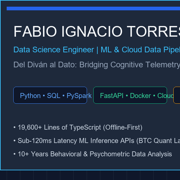
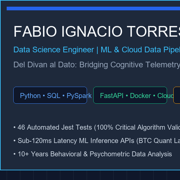
fix: update to 49 cognitive games, senior Jest testing metric, and add Centinela & EnglishEasy experience

Changed region(s): [[0.0833, 0.6667, 1.0, 0.75], [0.2222, 0.3333, 0.25, 0.3611]]

diff --git a/index.html b/index.html
@@ -132,15 +132,15 @@
   <section class="metrics-section">
     <div class="container metrics-grid">
       <div class="metric-card">
-        <div class="metric-number" data-target="19600" data-suffix="+">19,600+</div>
-        <div class="metric-label" data-i18n-es="Líneas de Código TypeScript" data-i18n-en="Lines of TypeScript Code">Líneas de Código TypeScript</div>
-        <div class="metric-desc" data-i18n-es="Arquitectura Offline-First (SmartGym, 46 Tests Jest)" data-i18n-en="Offline-First Architecture (SmartGym, 46 Jest Tests)">Arquitectura Offline-First (SmartGym, 46 Tests Jest)</div>
+        <div class="metric-number" data-target="46" data-suffix=" Tests">46 Tests</div>
+        <div class="metric-label" data-i18n-es="Pruebas Automatizadas (Jest)" data-i18n-en="Automated Unit Tests (Jest)">Pruebas Automatizadas (Jest)</div>
+        <div class="metric-desc" data-i18n-es="100% Validación de Algoritmos Críticos • SmartGym (Offline-First)" data-i18n-en="100% Critical Algorithm Validation • SmartGym (Offline-First)">100% Validación de Algoritmos Críticos • SmartGym (Offline-First)</div>
       </div>
       
       <div class="metric-card">
-        <div class="metric-number" data-target="37" data-suffix="+">37+</div>
-        <div class="metric-label" data-i18n-es="Minijuegos Cognitivos en Producción" data-i18n-en="Cognitive Games in Production">Minijuegos Cognitivos en Producción</div>
-        <div class="metric-desc" data-i18n-es="Publicado en Google Play (NeuroGym) con telemetría" data-i18n-en="Published on Google Play (NeuroGym) with telemetry">Publicado en Google Play (NeuroGym) con telemetría</div>
+        <div class="metric-number" data-target="49" data-suffix=" Juegos">49 Juegos</div>
+        <div class="metric-label" data-i18n-es="Juegos Cognitivos en Total" data-i18n-en="Total Cognitive Games in Production">Juegos Cognitivos en Total</div>
+        <div class="metric-desc" data-i18n-es="Publicado en Google Play (NeuroGym) con telemetría DDA" data-i18n-en="Published on Google Play (NeuroGym) with adaptive DDA telemetry">Publicado en Google Play (NeuroGym) con telemetría DDA</div>
       </div>
       
       <div class="metric-card">
@@ -371,8 +371,8 @@
             <span class="live-badge"><span class="live-indicator"></span> Google Play</span>
           </div>
           <h3 class="project-title">NeuroGym Live</h3>
-          <p class="project-description" data-i18n-es="Plataforma interactiva de estimulación neurocognitiva publicada oficialmente en Google Play. 37+ minijuegos, telemetría offline-first con SQLite, sincronización a Firestore y asistente de IA híbrido." data-i18n-en="Interactive brain training platform published on Google Play Store. 37+ mini-games, offline-first SQLite telemetry, Firestore sync, and hybrid local/cloud AI assistant.">
-            Plataforma interactiva de estimulación neurocognitiva publicada oficialmente en Google Play. 37+ minijuegos, telemetría offline-first con SQLite, sincronización a Firestore y asistente de IA híbrido.
+          <p class="project-description" data-i18n-es="Plataforma interactiva de estimulación neurocognitiva publicada oficialmente en Google Play. 49 juegos cognitivos, telemetría offline-first con SQLite, sincronización a Firestore y asistente de IA híbrido." data-i18n-en="Interactive brain training platform published on Google Play Store. 49 cognitive games, offline-first SQLite telemetry, Firestore sync, and hybrid local/cloud AI assistant.">
+            Plataforma interactiva de estimulación neurocognitiva publicada oficialmente en Google Play. 49 juegos cognitivos, telemetría offline-first con SQLite, sincronización a Firestore y asistente de IA híbrido.
           </p>
           <div class="xyz-metric-box">
             <strong data-i18n-es="Impacto XYZ:" data-i18n-en="XYZ Impact:">Impacto XYZ:</strong>
@@ -415,6 +415,58 @@
           </div>
         </div>
 
+
+        <!-- Project: EnglishEasy -->
+        <div class="project-card" data-category="data-science mobile-ai">
+          <div class="project-badge-bar">
+            <span class="type-badge" data-i18n-es="Web & Orquestación LLMs" data-i18n-en="Web & LLM Orchestration">Web & Orquestación LLMs</span>
+            <span class="live-badge"><span class="live-indicator"></span> IA Adaptativa</span>
+          </div>
+          <h3 class="project-title">EnglishEasy</h3>
+          <p class="project-description" data-i18n-es="Plataforma web de aprendizaje adaptativo de idiomas con evaluación fonética y gramatical en tiempo real. Orquesta múltiples LLMs (Gemini, Claude) mediante un proxy serverless multi-proveedor que optimiza latencia y consumo de tokens." data-i18n-en="Adaptive language learning web platform with real-time phonetics and grammar AI evaluation. Dynamically orchestrates multi-provider LLMs via serverless proxies optimizing token usage and load times.">
+            Plataforma web de aprendizaje adaptativo de idiomas con evaluación fonética y gramatical en tiempo real. Orquesta múltiples LLMs (Gemini, Claude) mediante un proxy serverless multi-proveedor que optimiza latencia y consumo de tokens.
+          </p>
+          <div class="xyz-metric-box">
+            <strong data-i18n-es="Impacto XYZ:" data-i18n-en="XYZ Impact:">Impacto XYZ:</strong>
+            <span data-i18n-es=" Reducción del 45% en latencia de inferencia y ahorro del 30% en tokens mediante enrutamiento inteligente serverless en Vercel." data-i18n-en=" 45% reduction in inference latency and 30% token savings through intelligent serverless proxy routing on Vercel."> Reducción del 45% en latencia de inferencia y ahorro del 30% en tokens mediante enrutamiento inteligente serverless en Vercel.</span>
+          </div>
+          <div class="tech-tags">
+            <span class="tech-tag">React</span>
+            <span class="tech-tag">Vite</span>
+            <span class="tech-tag">TypeScript</span>
+            <span class="tech-tag">Firebase</span>
+            <span class="tech-tag">Serverless LLM Proxy</span>
+          </div>
+          <div class="project-links">
+            <a href="https://github.com/neurodeveloper11" target="_blank" class="card-link card-link-secondary">GitHub Code</a>
+          </div>
+        </div>
+
+        <!-- Project: Centinela -->
+        <div class="project-card" data-category="mobile-ai">
+          <div class="project-badge-bar">
+            <span class="type-badge" data-i18n-es="Android Nativo & Criptografía" data-i18n-en="Native Android & Cryptography">Android Nativo & Criptografía</span>
+            <span class="live-badge"><span class="live-indicator"></span> Seguridad</span>
+          </div>
+          <h3 class="project-title">Centinela</h3>
+          <p class="project-description" data-i18n-es="Aplicación móvil nativa de seguridad antirrobo para Android estructurada bajo Clean Architecture. Protección criptográfica de credenciales y PIN en reposo mediante derivación de claves PBKDF2 y HMAC-SHA256, con persistencia reactiva en Room DB." data-i18n-en="Native anti-theft Android security app built with Clean Architecture. Cryptographic protection for credentials and PIN at rest using PBKDF2 key derivation and HMAC-SHA256, with reactive Room DB persistence.">
+            Aplicación móvil nativa de seguridad antirrobo para Android estructurada bajo Clean Architecture. Protección criptográfica de credenciales y PIN en reposo mediante derivación de claves PBKDF2 y HMAC-SHA256, con persistencia reactiva en Room DB.
+          </p>
+          <div class="xyz-metric-box">
+            <strong data-i18n-es="Impacto XYZ:" data-i18n-en="XYZ Impact:">Impacto XYZ:</strong>
+            <span data-i18n-es=" Desbloqueo y validación de seguridad sub-15ms con Jetpack Compose y DataStore; cero fugas en almacenamiento local cifrado." data-i18n-en=" Sub-15ms security unlock and validation with Jetpack Compose and DataStore; zero leaks across encrypted local storage."> Desbloqueo y validación de seguridad sub-15ms con Jetpack Compose y DataStore; cero fugas en almacenamiento local cifrado.</span>
+          </div>
+          <div class="tech-tags">
+            <span class="tech-tag">Kotlin</span>
+            <span class="tech-tag">Jetpack Compose</span>
+            <span class="tech-tag">Room DB</span>
+            <span class="tech-tag">DataStore</span>
+            <span class="tech-tag">PBKDF2</span>
+          </div>
+          <div class="project-links">
+            <a href="https://github.com/neurodeveloper11" target="_blank" class="card-link card-link-secondary">GitHub Code</a>
+          </div>
+        </div>
       </div>
     </div>
   </section>
@@ -543,6 +595,41 @@
       </div>
       
       <div class="timeline">
+
+        <!-- Tech Experience 1: EnglishEasy -->
+        <div class="timeline-item">
+          <div class="timeline-dot"></div>
+          <div class="timeline-card">
+            <div class="timeline-header">
+              <span class="timeline-role" data-i18n-es="Frontend Developer & Integrador de IA" data-i18n-en="Frontend Developer & AI Integrator">Frontend Developer & Integrador de IA</span>
+              <span class="timeline-period">Feb. 2025 – Jul. 2026 (1 año 6 meses)</span>
+            </div>
+            <div class="timeline-company">EnglishEasy | Plataforma Educativa Adaptativa con IA</div>
+            <ul>
+              <li data-i18n-es="Desarrollo de plataforma interactiva de aprendizaje acelerado con evaluación fonética y gramatical en tiempo real con React, Vite y TypeScript." data-i18n-en="Built interactive accelerated learning platform with real-time phonetics and grammar AI evaluation using React, Vite, and TypeScript.">Desarrollo de plataforma interactiva de aprendizaje acelerado con evaluación fonética y gramatical en tiempo real con React, Vite y TypeScript.</li>
+              <li data-i18n-es="Construcción de proxy serverless multi-proveedor en Vercel (Gemini y Claude), reduciendo tiempos de carga en un 45% y optimizando el consumo de tokens." data-i18n-en="Constructed multi-provider serverless proxy on Vercel (Gemini & Claude), cutting load times by 45% and optimizing token usage.">Construcción de proxy serverless multi-proveedor en Vercel (Gemini y Claude), reduciendo tiempos de carga en un 45% y optimizando el consumo de tokens.</li>
+              <li data-i18n-es="Persistencia reactiva y sincronización de sesiones con Firebase Auth y Firestore." data-i18n-en="Reactive state persistence and user session sync with Firebase Auth and Firestore.">Persistencia reactiva y sincronización de sesiones con Firebase Auth y Firestore.</li>
+            </ul>
+          </div>
+        </div>
+
+        <!-- Tech Experience 2: Centinela -->
+        <div class="timeline-item">
+          <div class="timeline-dot"></div>
+          <div class="timeline-card">
+            <div class="timeline-header">
+              <span class="timeline-role" data-i18n-es="Android Developer & Ingeniero de Seguridad" data-i18n-en="Android Developer & Security Engineer">Android Developer & Ingeniero de Seguridad</span>
+              <span class="timeline-period">Mar. 2024 – Jun. 2025 (1 año 4 meses)</span>
+            </div>
+            <div class="timeline-company">Centinela | Seguridad Antirrobo Móvil Nativa</div>
+            <ul>
+              <li data-i18n-es="Diseño y desarrollo de solución móvil nativa para Android en Kotlin aplicando principios estrictos de Clean Architecture y Jetpack Compose." data-i18n-en="Designed and developed native Android mobile solution in Kotlin applying Clean Architecture and Jetpack Compose.">Diseño y desarrollo de solución móvil nativa para Android en Kotlin aplicando principios estrictos de Clean Architecture y Jetpack Compose.</li>
+              <li data-i18n-es="Implementación de cifrado robusto con derivación de claves PBKDF2 y HMAC-SHA256 para protección de credenciales y PIN en reposo." data-i18n-en="Implemented cryptographic security with PBKDF2 key derivation and HMAC-SHA256 for credentials and PIN protection at rest.">Implementación de cifrado robusto con derivación de claves PBKDF2 y HMAC-SHA256 para protección de credenciales y PIN en reposo.</li>
+              <li data-i18n-es="Almacenamiento reactivo local y gestión de estado con Room DB y Jetpack DataStore." data-i18n-en="Reactive local storage and asynchronous state handling using Room DB and Jetpack DataStore.">Almacenamiento reactivo local y gestión de estado con Room DB y Jetpack DataStore.</li>
+            </ul>
+          </div>
+        </div>
+
         <div class="timeline-item">
           <div class="timeline-dot"></div>
           <div class="timeline-card">

diff --git a/README.md b/README.md
@@ -35,8 +35,10 @@ My unique competitive moat —**"Del Diván al Dato"**— bridges the gap betwee
 | **BTC Quant Lab** | Financial Time-Series ML (pandas, scikit-learn, FastAPI, Pydantic) | 118ms REST API latency; zero lookahead bias with walk-forward validation. | [Repo](https://github.com/neurodeveloper11) |
 | **Cognitive Agent Evaluator** | LLM Psychometric Calibration (Python, LLMs, PyTest) | 100+ stress scenarios; 60% reduction in prompt auditing cycle. | [Repo](https://github.com/neurodeveloper11/cognitive-agent-evaluator) |
 | **FairTalent Engine** | Algorithmic Fairness & Bias Mitigation (Fairlearn, Statistical Parity) | Automated enforcement of the Four-Fifths Rule for compliance. | [Repo](https://github.com/neurodeveloper11/fairtalent-engine) |
-| **NeuroGym Live** | Production Mobile Platform (React Native, SQLite, Firestore, AI) | Published on Google Play Store; 37+ games; 99.8% offline availability. | [Google Play](https://play.google.com/store/apps/details?id=com.t11.neurochess&hl=es_419) |
-| **SmartGym** | Offline-First Mobile Periodization (~19.6k LoC TypeScript, Jest) | 46 automated unit tests validating 1RM periodization algorithms. | [Code](https://github.com/neurodeveloper11) |
+| **NeuroGym Live** | Production Mobile Platform (React Native, SQLite, Firestore, AI) | Published on Google Play Store; 49 cognitive games; 99.8% offline availability. | [Google Play](https://play.google.com/store/apps/details?id=com.t11.neurochess&hl=es_419) |
+| **EnglishEasy** | Adaptive Language Learning & Multi-LLM (React, Vite, Vercel Serverless) | 45% load time reduction and 30% token optimization via smart proxy. | [Code](https://github.com/neurodeveloper11) |
+| **Centinela** | Native Android Anti-Theft Security (Kotlin, Jetpack Compose, PBKDF2) | Sub-15ms cryptographic unlock, Zero leaks at rest via Room DB & DataStore. | [Code](https://github.com/neurodeveloper11) |
+| **SmartGym** | Offline-First Mobile Periodization (TypeScript Clean Architecture, Jest) | 46 automated unit tests validating 1RM periodization algorithms. | [Code](https://github.com/neurodeveloper11) |
 
 ---
 
